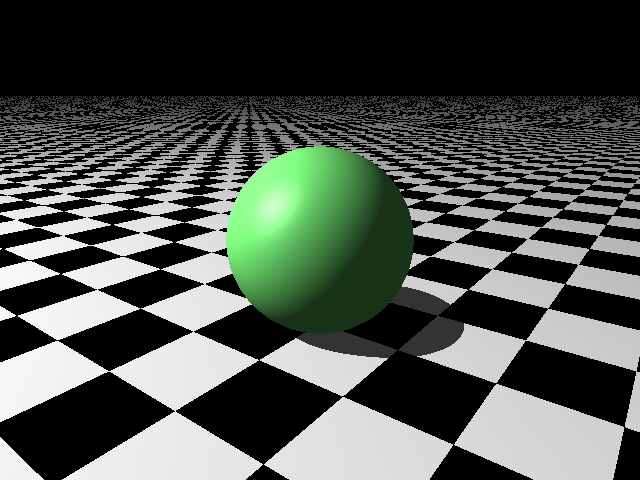
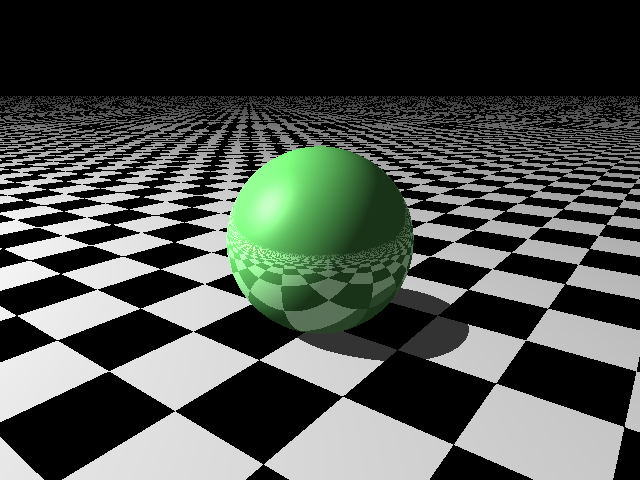
ya se muestra la figura con reflection

diff --git a/src/proyectoraytracing/ProyectoRayTracing.java b/src/proyectoraytracing/ProyectoRayTracing.java
@@ -32,6 +32,7 @@ public class ProyectoRayTracing {
     public static void main(String[] args) {
         long start = System.nanoTime();
         
+        
         int height, width;
         height = 480;
         width = 640;
@@ -56,7 +57,7 @@ public class ProyectoRayTracing {
         Vector3D lookAt = new Vector3D(0,0,0);
         Vector3D diff_btw = new Vector3D(campos.x-lookAt.x,campos.y-lookAt.y,campos.z-lookAt.z);
         
-        //crea mas verctores no entiendo para que minuto 30 aprox
+        
         Vector3D camdir = diff_btw.negative().normalize();
         Vector3D camright = Y.cross(camdir).normalize();
         Vector3D camdown = camright.cross(camdir);
@@ -70,7 +71,7 @@ public class ProyectoRayTracing {
         Color gray = new Color(0.5F, 0.5F, 0.5F, 0);
         Color black = new Color(0.0F,0.0F,0.0F,0);
         
-        Vector3D light_pos = new Vector3D(-7, 10, -10);  
+        Vector3D light_pos = new Vector3D(-9, 10, -10);  
         Light scene_light = new Light(light_pos, white_light);
         ArrayList<Source> light_sources = new ArrayList<>(); //Guarda luces de escena
         light_sources.add(scene_light);
@@ -149,6 +150,12 @@ public class ProyectoRayTracing {
         
         long end = System.nanoTime();
         System.out.println("Loop Time: "+ (end-start)/1000000000.0F);
+        
+        /*
+        delete pixels;
+        t2 = clock();
+        float diff ((float)t2-(float)t1)/1000;
+        */
     }
     public static int winningObjectIndex(ArrayList<Double> object_intersections){
         
@@ -207,11 +214,12 @@ public class ProyectoRayTracing {
             //checkored/title floor pattern
             int square = (int) Math.floor(intersection_position.x)+(int) Math.floor(intersection_position.z);
             if ((square % 2)==0){
-                //black tile
+                //cuadro negro
                 winning_object_color.setColorRed(0);
                 winning_object_color.setColorGreen(0);
                 winning_object_color.setColorBlue(0);
             }else{
+                //cuadro blanco
                 winning_object_color.setColorRed(1);
                 winning_object_color.setColorGreen(1);
                 winning_object_color.setColorBlue(1);
@@ -219,6 +227,40 @@ public class ProyectoRayTracing {
         }else{}
         
         Color final_color = winning_object_color.colorScalar(ambientlight);
+        
+        if(winning_object_color.getSpecial()>0 && winning_object_color.getSpecial()<=1){
+            //reflexion de objetos con intensidad specular
+            double dot1=winning_object_normal.dot(intersecting_ray_direction.negative());
+            
+            Vector3D scalar1= winning_object_normal.mult(dot1);
+            Vector3D add1 =scalar1.add(intersecting_ray_direction);
+            Vector3D scalar2 = add1.mult(2);
+            Vector3D add2 = intersecting_ray_direction.negative().add(scalar2);
+            Vector3D reflection_direction = add2.normalize();
+            
+            Ray reflection_ray = new Ray(intersection_position, reflection_direction);
+            //determina que rayo intersecta primero
+            ArrayList<Double> reflection_intersections=new ArrayList<>();
+            for(int reflection_index=0;reflection_index<scene_objects.size();reflection_index++){
+                reflection_intersections.add(scene_objects.get(reflection_index).findIntersection(reflection_ray));
+            }
+            
+            int index_of_winning_object_with_reflection = winningObjectIndex(reflection_intersections);
+            
+            if(index_of_winning_object_with_reflection !=-1){
+                //el rayo de reflexion se perdio
+                if(reflection_intersections.get(index_of_winning_object_with_reflection)>accuracy){
+                    //determina la posicion y direccion en el punto de interseccion
+                    //el rayo solo afecta el color si este refleja algo
+                    Vector3D reflection_intersection_position = intersection_position.add(reflection_direction.mult(reflection_intersections.get(index_of_winning_object_with_reflection)));
+                    Vector3D reflection_intersection_ray_direction = reflection_direction;
+                    
+                    Color reflection_intersection_color = getColorAt(reflection_intersection_position, reflection_intersection_ray_direction, scene_objects, index_of_winning_object_with_reflection, light_sources, accuracy, ambientlight);
+                    
+                    final_color = final_color.colorAdd(reflection_intersection_color.colorScalar(winning_object_color.getSpecial()));
+                }else{}
+            }else{}
+        }else{}
         
         for(int light_index = 0; light_index < light_sources.size(); light_index++){
             Vector3D light_direction = light_sources.get(light_index).getLigthPosition().add(intersection_position.negative()).normalize();
